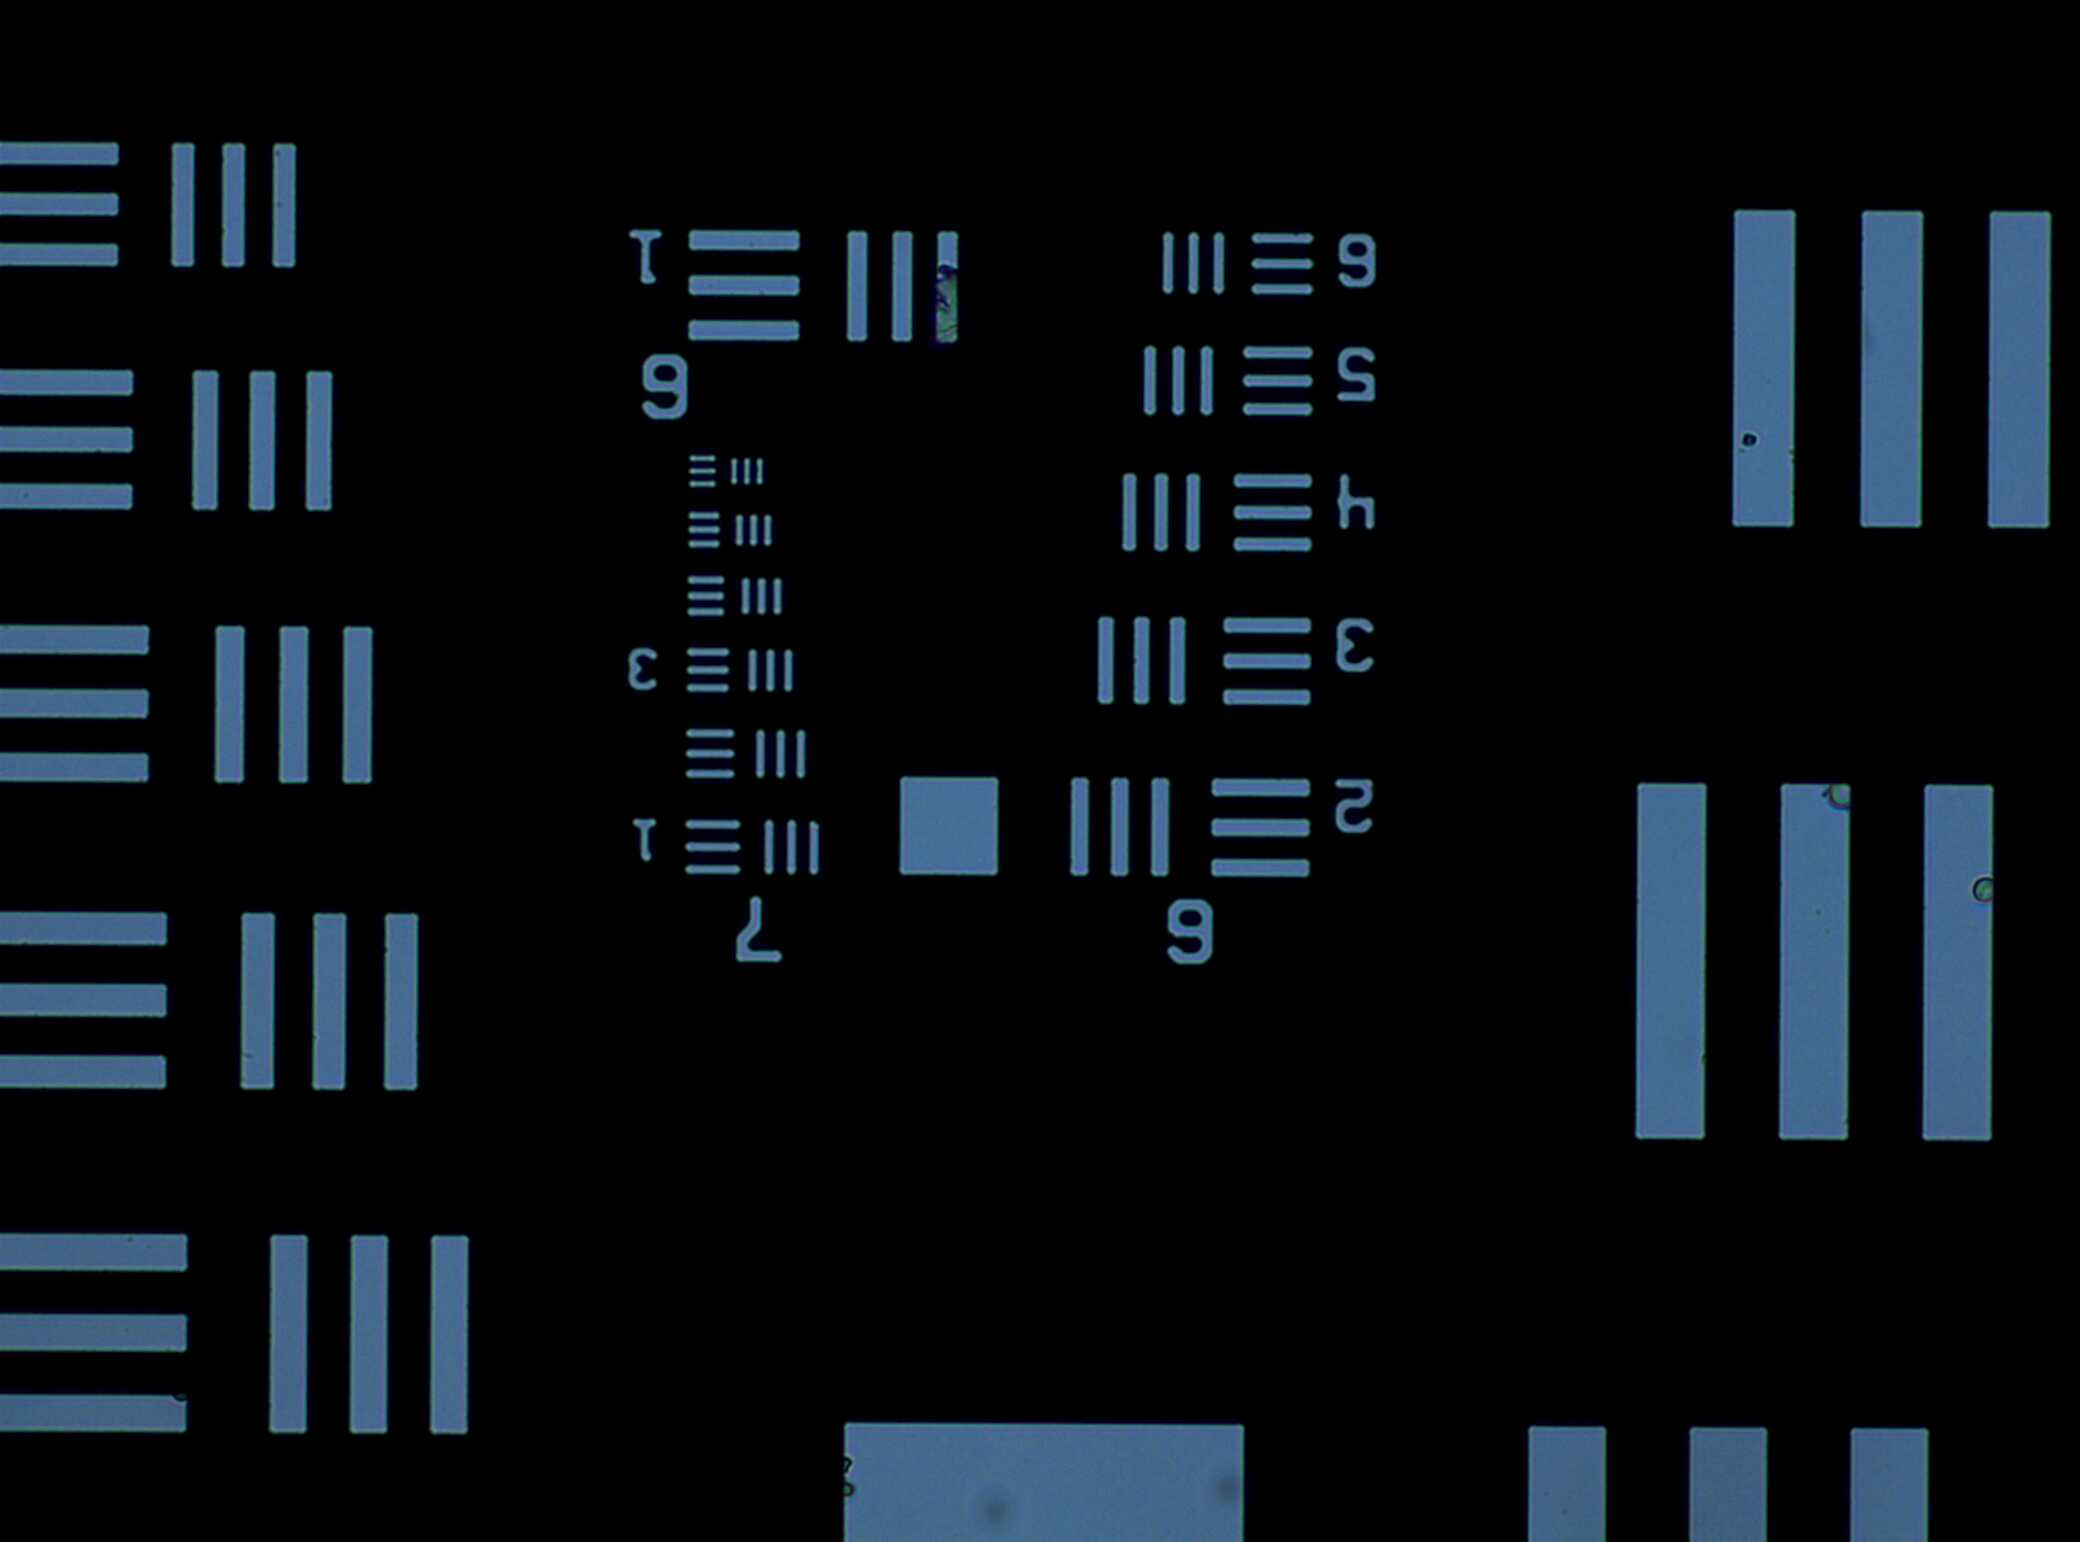
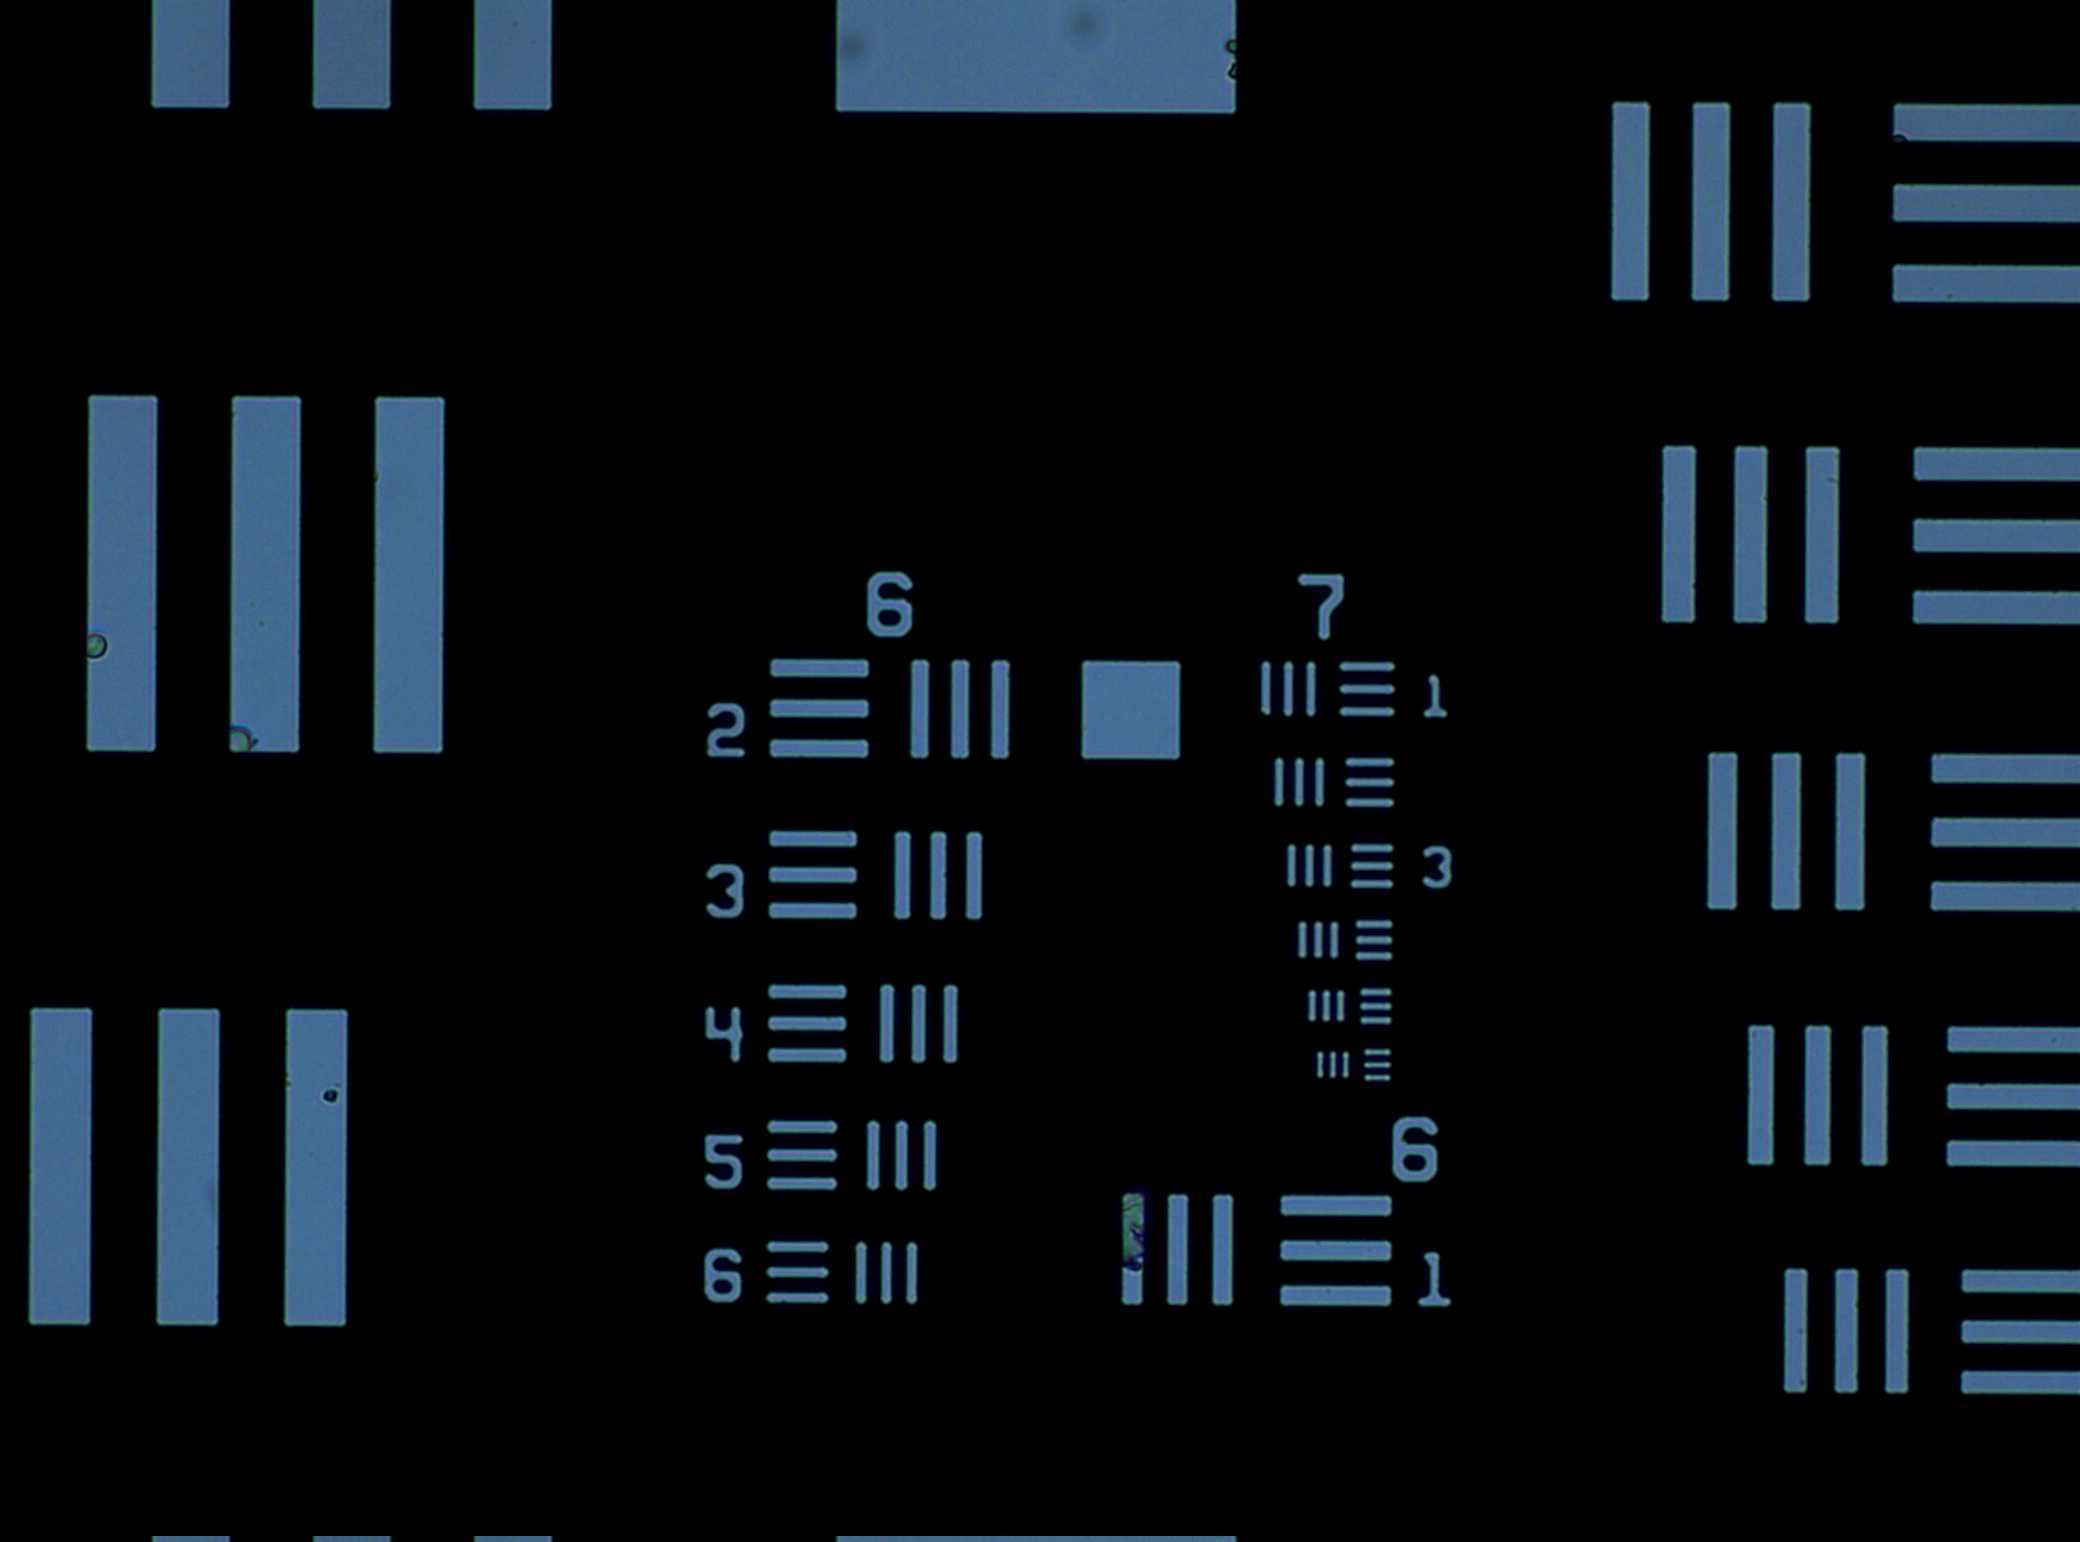
rotated the images of the usaf target and also have gotten the correct (for now) conversion between the spatial domain and the spatial frequency domain in usaf.py. More tests soon on higher magnified images and then will prepare a short report

diff --git a/usaf.py b/usaf.py
@@ -5,10 +5,16 @@
 import Image, numpy, pylab, matplotlib.cm as cm
 
 ## GLOBAL DEFINITIONS
-pixel_size = 1.58	# dimesion of pixel in microns
+pixel_size = 3.45	# actual dimension of camera sensor pixel
 pi = 3.141592
+magnification = 2.	
 
-u = Image.open("usaf.JPG").convert("L")
+# size of object we want to resolve
+object_size = 20.0	# microns
+print(object_size)
+print("microns")
+
+u = Image.open("./data/20150319_fpm/USAF_1_2X_lightLevel6.jpg").convert("L")
 
 usaf = numpy.array(u)
 usaf_width = usaf.shape[0]
@@ -61,7 +67,7 @@ def band_stop(target_image, freq, spread):
   
   # convert the 'frequency' into pixels
   nyquist_freq = 1.00/(2*pixel_size)		# units of micron-1, this is the max freqyency which can be resolved by this fft
-  frequency = 4.*(freq/nyquist_freq)*(target_image.shape[1]/2)	# multiplying by 4 because somehow it works this way
+  frequency = (1/magnification)*(freq/nyquist_freq)*(target_image.shape[1]/2)	
   
   # define two circular masks with radius (frequency - spread) and (frequency + spread)
   # inner = circular_mask(target_image.shape, center, (frequency - spread))
@@ -100,13 +106,8 @@ def band_stop(target_image, freq, spread):
   return band_stopped_image
 
 ## now the section where we apply everything..
-# we start by calculating the frequency where we would like to remove (dependent on the object size)
-# first we need the size of the object we want to attenuate
-object_size = 100.0	# microns
-print(object_size)
-print("microns")
 
-# freqyency calculatins...
+# calculating the frequency corresponding to the object size we need...
 object_frequency = 1.00/(2*object_size)		# again in micron-1
 
 # then apply the circular frequency mask..
